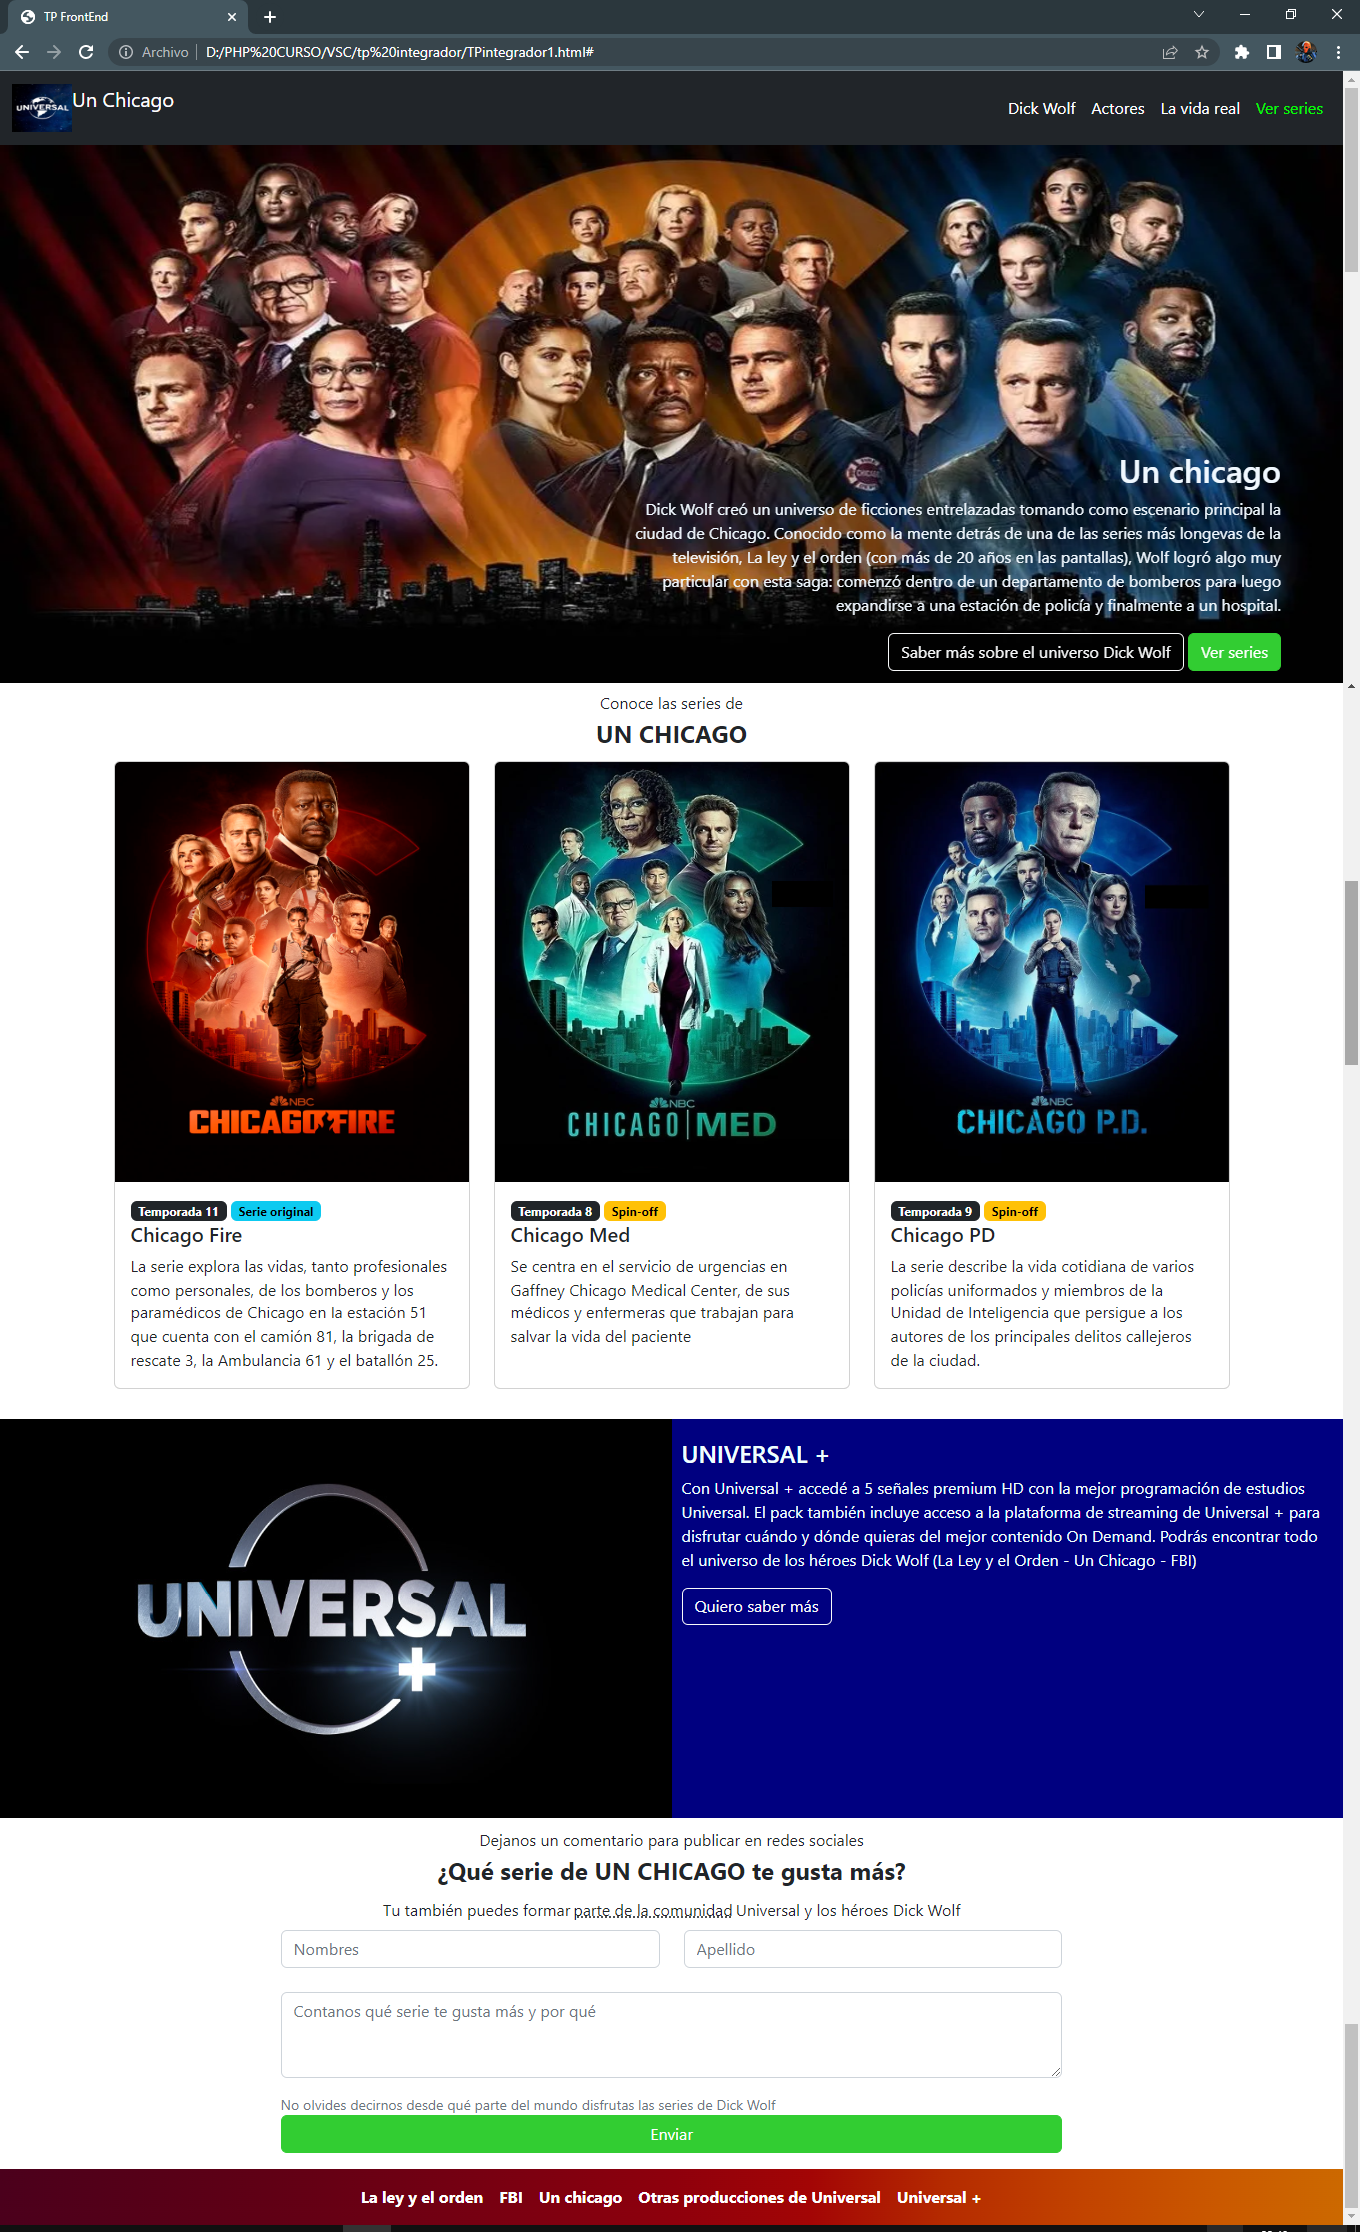
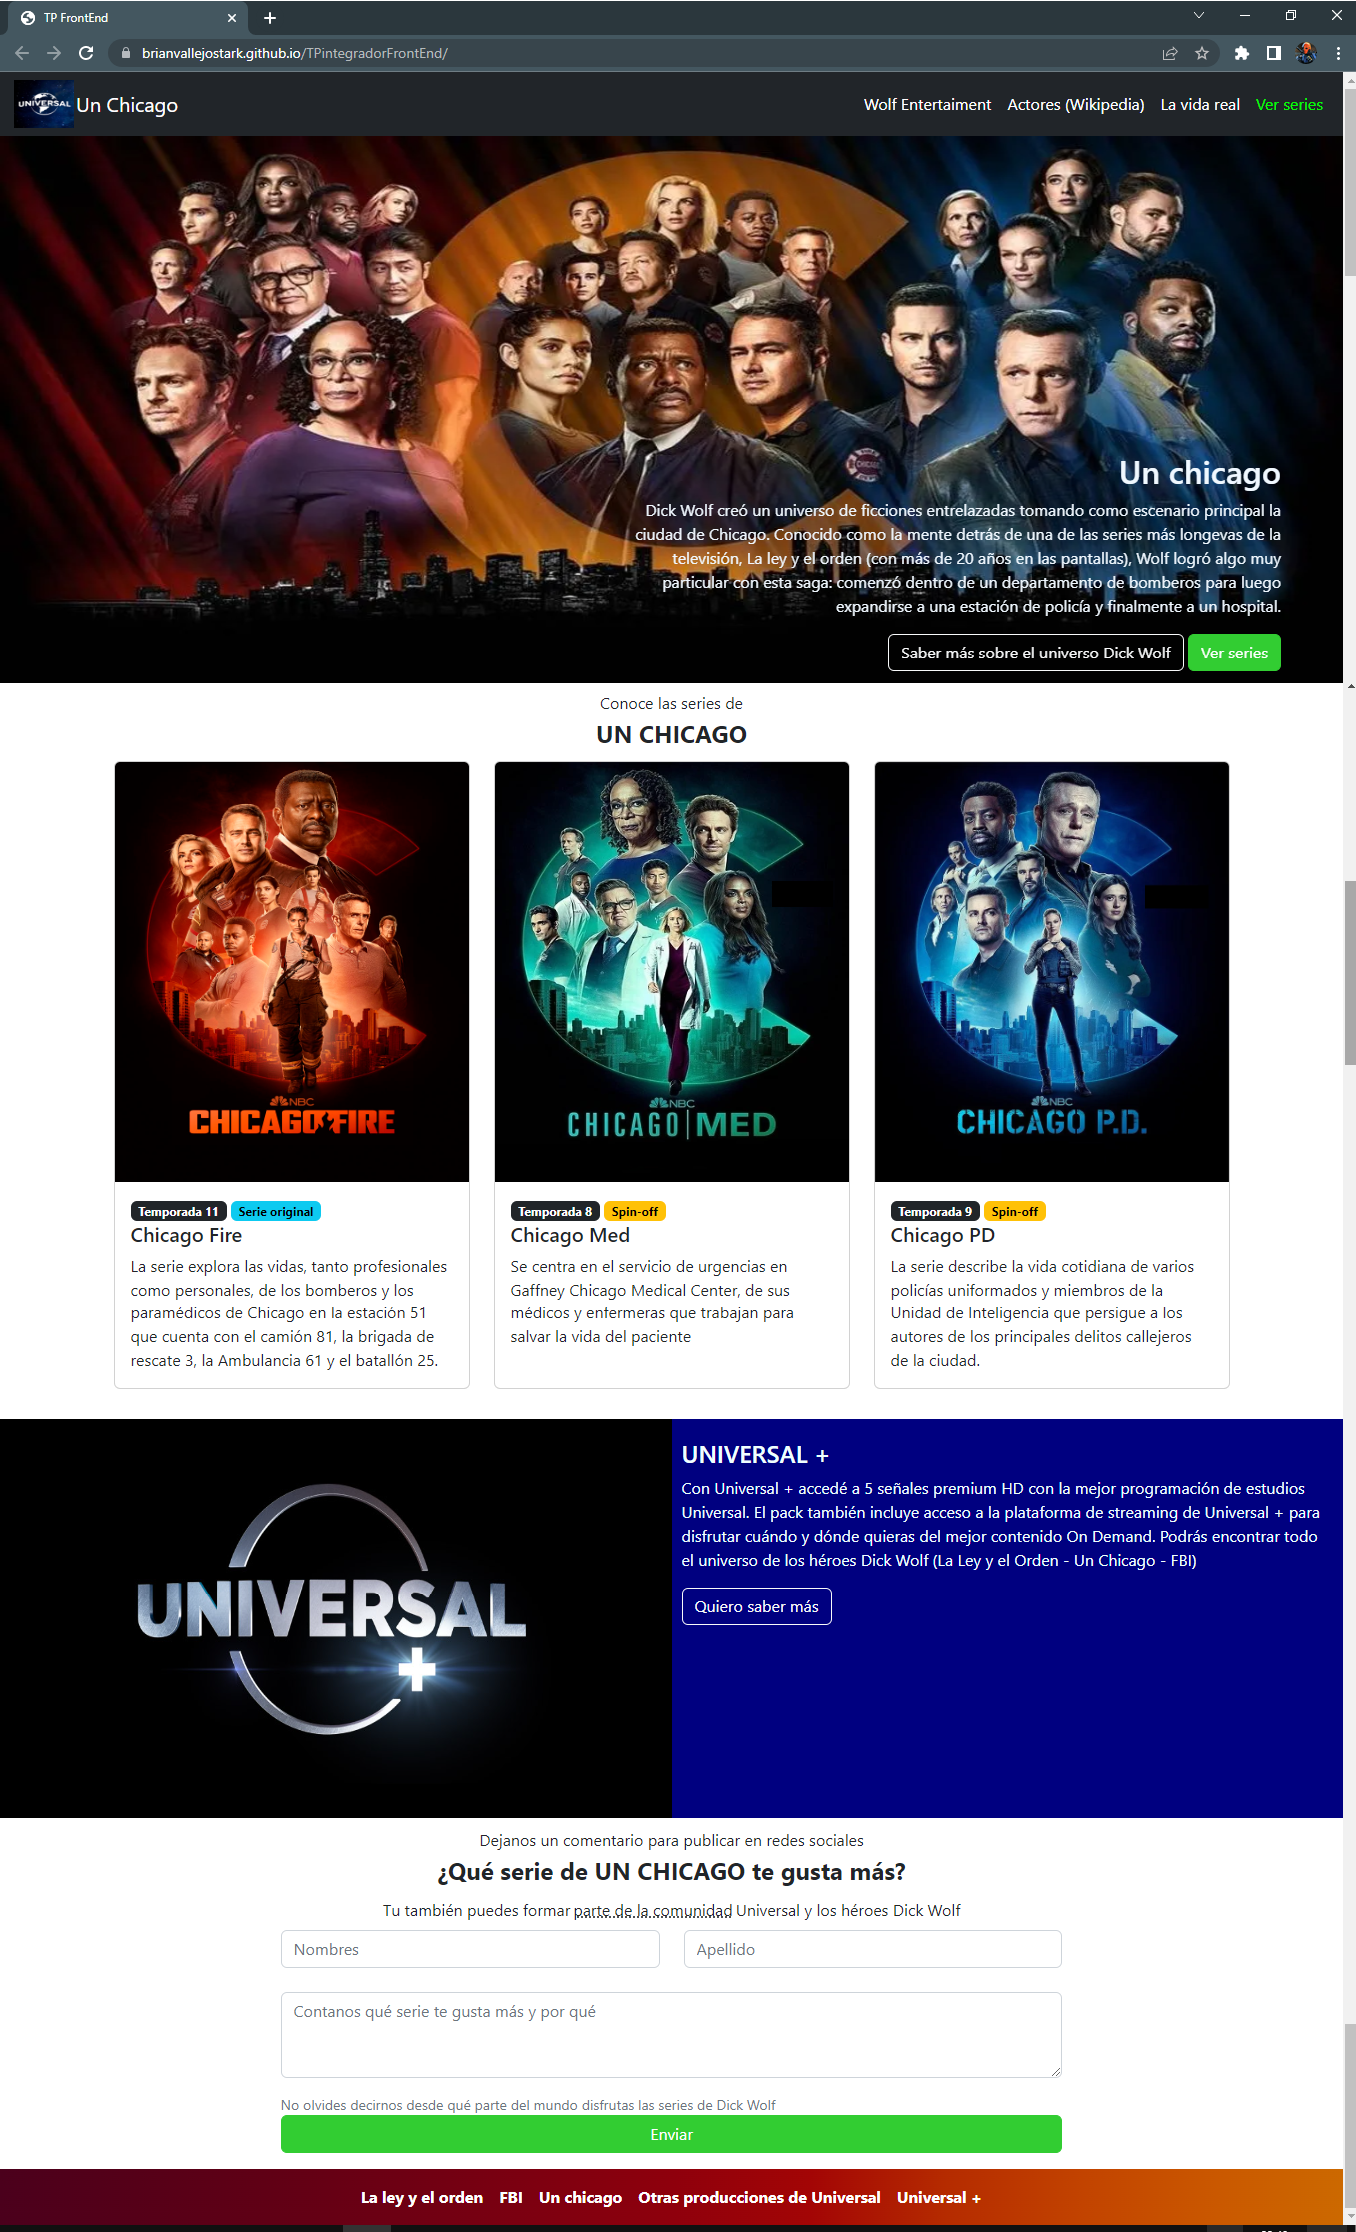
actualización de captura de pantalla y links de referencia

diff --git a/index.html b/index.html
@@ -13,7 +13,7 @@
   <header>
    <nav class="navbar navbar-expand-lg navbar-dark bg-dark cabeza">
     <div class="container-fluid cabeza">
-      <a class="navbar-brand logo" href="#">
+      <a class="navbar-brand logo" href="index.html">
         <img src="logo universal.png" alt="logo universal" width="60" height="48" class="d-inline-block align-text-top">
        <p class="logo">Un Chicago</p>
       </a>
@@ -151,19 +151,16 @@
   <nav class="navbar navbar-expand-lg bg-light navbar-dark final">
         <ul class="navbar-nav">
             <li class="nav-item">
-              <a class="nav-link active" aria-current="page" href="#">La ley y el orden</a>
+              <a class="nav-link active" aria-current="page" href="https://www.instagram.com/universaltvla/?hl=es">Síguenos en Instagram</a>
             </li>
             <li class="nav-item">
-              <a class="nav-link active" aria-current="page" href="#">FBI</a>
+              <a class="nav-link active" aria-current="page" href="index.html">Un chicago</a>
             </li>
             <li class="nav-item">
-              <a class="nav-link active" aria-current="page" href="#">Un chicago</a>
+              <a class="nav-link active" aria-current="page" href="https://www.universalplus.com/canales">Otras producciones de Universal</a>
             </li>
             <li class="nav-item">
-              <a class="nav-link active" aria-current="page" href="#">Otras producciones de Universal</a>
-            </li>
-            <li class="nav-item">
-              <a class="nav-link active" aria-current="page" href="#">Universal +</a>
+              <a class="nav-link active" aria-current="page" href="https://www.universalplus.com/">Universal +</a>
             </li>
         </ul>
   </nav>
